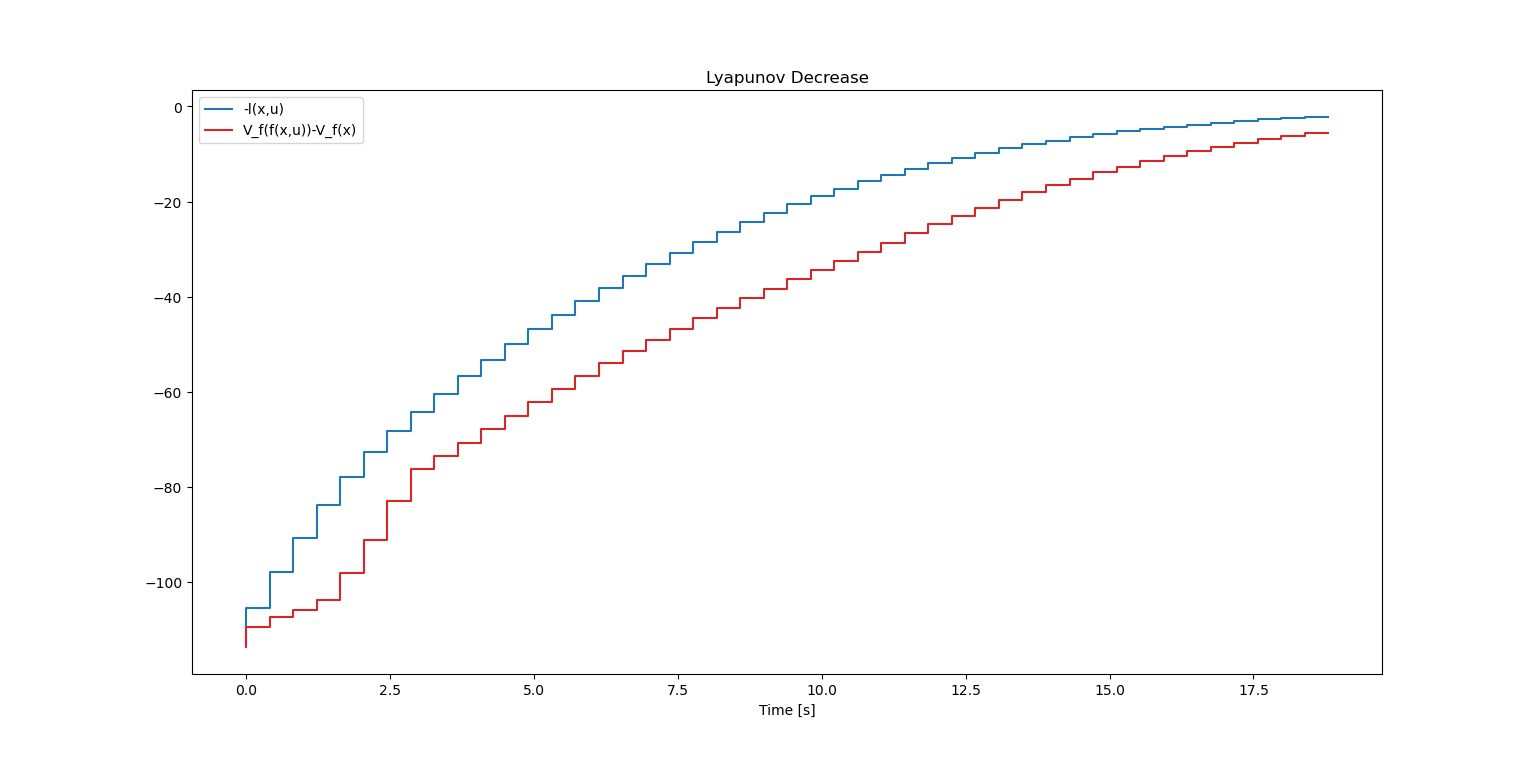
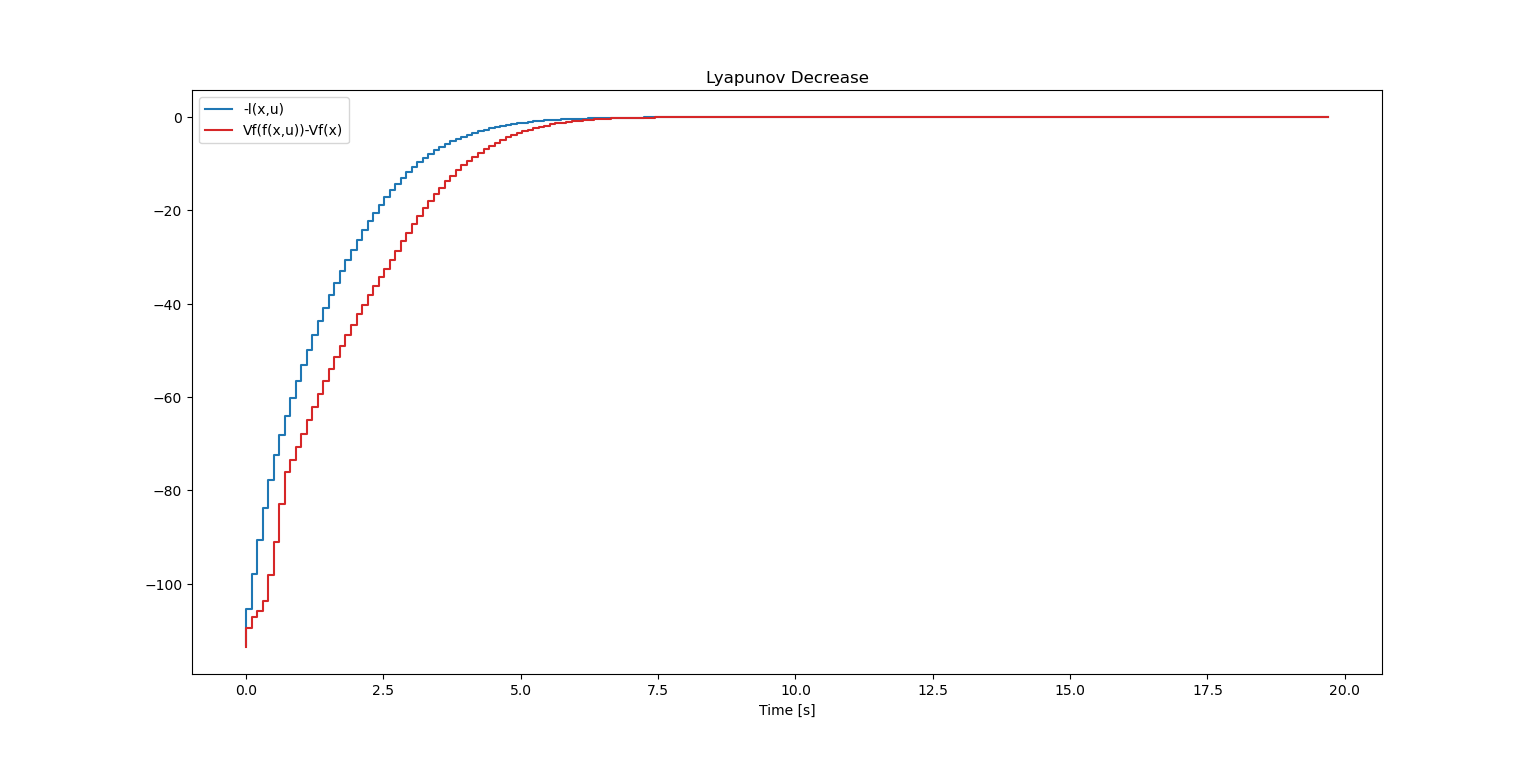
Compare MPC with finite LQR outside Xf

diff --git a/src/stabilityAnalysis.py b/src/stabilityAnalysis.py
@@ -1,61 +1,154 @@
 from model import drone_dynamics
 from planner import trajectory_generation
+from estimateXf import max_control_admissable_set
 import matplotlib.pyplot as plt
 import numpy as np
 
-
 # define simulation parameters
-dt = 0.4
+dt = 0.1
 t_final = 20.0  # seconds
 time_steps = int(t_final / dt)
 time = np.linspace(0, t_final, time_steps)
 
 Q = np.eye(12)
-parms = {"Q": Q, "R": np.eye(4), "N": 10, "Qf": Q, "dynamic": True}
+# Q = np.block([[np.eye(3) * 0.5, np.zeros((3, 9))],
+#               [np.zeros((9, 3)), np.eye(9)]])
+parms1 = {"Q": Q, "R": np.eye(4), "N": 10, "Qf": Q, "dynamic": True}
+drone_model1 = drone_dynamics.Quadrotor(parms1)
+K, P = drone_model1.make_dlqr_controller(parms1)
+parms = {"Q": Q, "R": np.eye(4), "N": 10, "Qf": P, "dynamic": True}
 drone_model = drone_dynamics.Quadrotor(parms)
-K, P = drone_model.make_dlqr_controller(parms)
 
-# initialize state and input arrays
-x_bag, u_bag = drone_model.get_ss_bag_vectors(time_steps) # np.zeros((self.n_states, N))
-x0 = np.array([5, 3, 0, 0, 0, 0, 0, 0, 0, 0, 0, 0])
+################### Xf generation ###################
+x_lim = np.array([1000, 1000, 1000, np.pi/2, np.pi/2, 100, 2, 2, 2, 3*np.pi, 3*np.pi, 3*np.pi])
+u_lim = np.array([30, 1.4715, 1.4715, 0.0196])
+H, h = max_control_admissable_set(drone_model.dsys.A, drone_model.dsys.B, drone_model.K, x_lim, u_lim)
+print('H:', H.shape, type(H))   
+print('h:', h.shape, type(h))
+
+x0_tested = [0, 0, 0, 0, 0, 0, 0, 0, 0, 0, 0, 0]  # [-20, 5, 0, 0, 0, 5, 0, 0, 0, 0, 0, 0]
+if np.all(np.dot(H, x0_tested) <= h):
+    print('x0 is in the set X_f')
+else:
+    print('x0 is NOT in the set X_f')
+
+x_bagMPC, u_bagMPC = drone_model.get_ss_bag_vectors(time_steps) # np.zeros((self.n_states, N))
+x_bagLQR, u_bagLQR = drone_model.get_ss_bag_vectors(time_steps) # np.zeros((self.n_states, N))
+x0 = np.array(x0_tested)
 u0 = np.array([0, 0, 0, 0])
-x_bag[:, 0] = x0
-u_bag[:, 0] = u0
+x_bagMPC[:, 0] = x0
+u_bagMPC[:, 0] = u0
+x_bagLQR[:, 0] = x0
+u_bagLQR[:, 0] = u0
 x_ref = trajectory_generation.hover_traj(time_steps)  # reference trajectory (state)
 u_ref =  np.zeros((4, time_steps)) # reference trajectory (input)
+
+# MPC vs LQR simulation
+for k in range(time_steps-1):
+    x_ref_current = x_ref[:, k]
+    u_ref_current = u_ref[:, k]
+    x_currentMPC = x_bagMPC[:, k]
+    x_currentLQR = x_bagLQR[:, k]
+
+    # MPC
+    x_nextMPC, uMPC = drone_model.step(x_currentMPC, x_ref_current, u_ref_current, cont_type="MPC", sim_system="linear", parms=parms)
+    x_bagMPC[:, k + 1] = x_nextMPC
+    u_bagMPC[:, k + 1] = uMPC
+
+    # Finite Horizon Unconstrained LQR
+    uLQR, _ = drone_model.Nlqr(x_currentLQR, x_ref_current, u_ref_current, Q=parms["Q"], R=parms["R"], N=parms["N"], Qf=parms["Qf"], dynamic=False)
+    x_nextLQR = drone_model.dsys.A @ x_currentLQR + drone_model.dsys.B @ uLQR
+    x_bagLQR[:, k + 1] = x_nextLQR
+    u_bagLQR[:, k + 1] = uLQR
+
+plt.figure()
+plt.subplot(2, 2, 1)
+plt.step(time, x_bagMPC[0, :], '#1f77b4', label="x")
+plt.step(time, x_bagMPC[1, :], '#ff7f0e', label="y")
+plt.step(time, x_bagMPC[2, :], '#2ca02c', label="z")
+plt.step(time, x_ref[0, :], '#1f77b4', linestyle='--', label="x_ref")
+plt.step(time, x_ref[1, :], '#ff7f0e', linestyle='--', label="y_ref")
+plt.step(time, x_ref[2, :], '#2ca02c', linestyle='--', label="z_ref")
+plt.xlabel("Time [s]")
+plt.ylabel("Position [m]")
+plt.title("MPC")
+plt.legend()
+
+plt.subplot(2, 2, 2)
+plt.step(time, x_bagLQR[0, :], '#1f77b4', label="x")
+plt.step(time, x_bagLQR[1, :], '#ff7f0e', label="y")
+plt.step(time, x_bagLQR[2, :], '#2ca02c', label="z")
+plt.step(time, x_ref[0, :], '#1f77b4', linestyle='--', label="x_ref")
+plt.step(time, x_ref[1, :], '#ff7f0e', linestyle='--', label="y_ref")
+plt.step(time, x_ref[2, :], '#2ca02c', linestyle='--', label="z_ref")
+plt.xlabel("Time [s]")
+plt.ylabel("Position [m]")
+plt.title("LQR")
+plt.legend()
+
+plt.subplot(2, 2, 3)
+plt.step(time, x_bagMPC[3, :], '#1f77b4', label="phi")
+plt.step(time, x_bagMPC[4, :], '#ff7f0e', label="theta")
+plt.step(time, x_bagMPC[5, :], '#2ca02c', label="psi")
+plt.step(time, x_ref[3, :], '#1f77b4', linestyle='--', label="phi_ref")
+plt.step(time, x_ref[4, :], '#ff7f0e', linestyle='--', label="theta_ref")
+plt.step(time, x_ref[5, :], '#2ca02c', linestyle='--', label="psi_ref")
+plt.xlabel("Time [s]")
+plt.ylabel("Angle [rad]")
+plt.legend()
+
+plt.subplot(2, 2, 4)
+plt.step(time, x_bagLQR[3, :], '#1f77b4', label="phi")
+plt.step(time, x_bagLQR[4, :], '#ff7f0e', label="theta")
+plt.step(time, x_bagLQR[5, :], '#2ca02c', label="psi")
+plt.step(time, x_ref[3, :], '#1f77b4', linestyle='--', label="phi_ref")
+plt.step(time, x_ref[4, :], '#ff7f0e', linestyle='--', label="theta_ref")
+plt.step(time, x_ref[5, :], '#2ca02c', linestyle='--', label="psi_ref")
+plt.xlabel("Time [s]")
+plt.ylabel("Angle [rad]")
+plt.legend()
+
+plt.show()
 
 # do optimal target selection
 #x_ref, u_ref = drone_model.ots(x_ref[:3, 0], parms)
 
-# Cost
-l_xu = np.zeros(time_steps) # stage cost optimal
-Vf_x = np.zeros(time_steps) # terminal cost optimal
-Vf_fxu = np.zeros(time_steps)   # terminal cost optimal next state
-A = drone_model.dsys.A
-B = drone_model.dsys.B
+################### Lyapunov Decrease ###################
+# x_bag, u_bag = drone_model.get_ss_bag_vectors(time_steps) # np.zeros((self.n_states, N))
+# x0 = np.array(x0_tested)
+# u0 = np.array([0, 0, 0, 0])
+# x_bag[:, 0] = x0
+# u_bag[:, 0] = u0
 
-for k in range(time_steps-1):
-    x_ref_current = x_ref[:, k]
-    u_ref_current = u_ref[:, k]
-    x_current = x_bag[:, k]
-    u, xMPC = drone_model.mpc(x_current, x_ref_current, u_ref_current, Q=parms["Q"], R=parms["R"], N=parms["N"], Qf=parms["Qf"], dynamic=parms["dynamic"])
-    x_next = drone_model.dsys.A @ x_current + drone_model.dsys.B @ u
-    buffer = xMPC[:, -1]
-    l_xu[k] = (buffer-x_ref_current).T @ parms['Q'] @ (buffer-x_ref_current) + (u-u_ref_current).T @ parms['R'] @ (u-u_ref_current)
-    x_bag[:, k+1] = x_next
-    u_bag[:, k+1] = u
+# # Cost
+# l_xu = np.zeros(time_steps) # stage cost optimal
+# Vf_x = np.zeros(time_steps) # terminal cost optimal
+# Vf_fxu = np.zeros(time_steps)   # terminal cost optimal next state
+# A = drone_model.dsys.A
+# B = drone_model.dsys.B
 
-# Calculate cost
-for k in range(time_steps-1):
-    Vf_x[k] = (x_bag[:,k]-x_ref[:,k]).T @ P @ (x_bag[:,k]-x_ref[:,k])
-    x_next_optimal = A @ x_bag[:, k] + B @ u_bag[:, k]
-    Vf_fxu[k] = (x_next_optimal-x_ref[:,k]).T @ P @ (x_next_optimal-x_ref[:,k])
+# for k in range(time_steps-1):
+#     x_ref_current = x_ref[:, k]
+#     u_ref_current = u_ref[:, k]
+#     x_current = x_bag[:, k]
+#     uMPC, xMPC = drone_model.mpc(x_current, x_ref_current, u_ref_current, Q=parms["Q"], R=parms["R"], N=parms["N"], Qf=parms["Qf"], dynamic=parms["dynamic"])
+#     x_next = drone_model.dsys.A @ x_current + drone_model.dsys.B @ uMPC
+#     buffer = xMPC[:, -1]
+#     l_xu[k] = (buffer-x_ref_current).T @ parms['Q'] @ (buffer-x_ref_current) + (uMPC-u_ref_current).T @ parms['R'] @ (uMPC-u_ref_current)
+#     x_bag[:, k+1] = x_next
+#     u_bag[:, k+1] = uMPC
 
-# Show Lyanpunov decrease
-plt.figure()
-plt.step(np.linspace(0, dt * len(l_xu[2:-1]), len(l_xu[2:-1])), -1 * l_xu[2:-1], '#1f77b4', label="-l(x,u)")
-plt.step(np.linspace(0, dt * len(l_xu[2:-1]), len(l_xu[2:-1])), Vf_fxu[2:-1] - Vf_x[2:-1], '#d62728', label="V_f(f(x,u))-V_f(x)")
-plt.xlabel("Time [s]")
-plt.title("Lyapunov Decrease")
-plt.legend()
-plt.show()
+# # Calculate cost
+# for k in range(time_steps-1):
+#     x_next_optimal = A @ x_bag[:, k] + B @ u_bag[:, k]
+#     Vf_x[k] = (x_bag[:,k]-x_ref[:,k]).T @ P @ (x_bag[:,k]-x_ref[:,k])
+#     Vf_fxu[k] = (x_next_optimal-x_ref[:,k+1]).T @ P @ (x_next_optimal-x_ref[:,k+1])
+
+# # Show Lyanpunov decrease
+# plt.figure()
+# plt.step(np.linspace(0, dt * len(l_xu[2:-1]), len(l_xu[2:-1])), -1 * l_xu[2:-1], '#1f77b4', label="-l(x,u)")
+# plt.step(np.linspace(0, dt * len(l_xu[2:-1]), len(l_xu[2:-1])), Vf_fxu[2:-1] - Vf_x[2:-1], '#d62728', label="Vf(f(x,u))-Vf(x)")
+# plt.xlabel("Time [s]")
+# plt.title("Lyapunov Decrease")
+# plt.legend()
+# plt.show()

diff --git a/src/estimateXf.py b/src/estimateXf.py
@@ -10,7 +10,7 @@ only if O_t = O_{t+1} for some t. Based on the definition (2, 3) and Theorem 2.3
 the following optimization problem:
 """
 
-from Model import drone_dynamics
+from model import drone_dynamics
 import numpy as np
 from scipy.optimize import linprog
 
@@ -35,13 +35,13 @@ def max_control_admissable_set(A, B, K, x_lim, u_lim):
     """
 
     # Initialization
-    nx = len(x_lim)                                     # Number of states
-    nu = len(u_lim)                                     # Number of control inputs
+    nx = len(x_lim)                                     # Number of states 12
+    nu = len(u_lim)                                     # Number of control inputs 4
     f = np.concatenate((u_lim, u_lim, x_lim, x_lim))    # Constraints    32
     s = f.shape[0]                                      # Number of constraints 32
-    A_K = A - np.dot(B, K)                              # A_K closed loop system matrix 
-    H = np.empty((0, A.shape[1]))
-    h = np.empty(0)
+    A_K = A - B @ K                                     # A_K closed loop system matrix 
+    H = np.empty((0, A.shape[1]))                       # (0, 12)
+    h = np.empty(0)                                     # (0,)
     exit_flag = 0
     t = 0
 
@@ -59,7 +59,7 @@ def max_control_admissable_set(A, B, K, x_lim, u_lim):
         opt_val = np.zeros(s)
 
         for i in range(s):
-            res = linprog(-J[i, :], A_ub=np.vstack(H), b_ub=np.array(h), method='highs') # solve the opti problem
+            res = linprog(-J[i, :], A_ub=np.array(H), b_ub=np.array(h), method='highs') # solve the opti problem
             if res.status == 2:     # If problem is infeasible
                 fval = 0
             elif res.status == 3:   # If problem is unbounded
@@ -82,30 +82,22 @@ def max_control_admissable_set(A, B, K, x_lim, u_lim):
     
     return H, h
 
-drone_model = drone_dynamics.Quadrotor()
-A = drone_model.dsys.A  # (12, 12)
-B = drone_model.dsys.B  # (12, 4)
-C = drone_model.dsys.C  # (12, 12)
-K_lqr = drone_model.K   # (4, 12)
+# Q = np.eye(12)
+# parms = {"Q": Q, "R": np.eye(4), "N": 10, "Qf": Q, "dynamic": True}
+# drone_model = drone_dynamics.Quadrotor(parms)
+# A = drone_model.dsys.A  # (12, 12)
+# B = drone_model.dsys.B  # (12, 4)
+# C = drone_model.dsys.C  # (12, 12)
+# K_lqr = drone_model.K   # (4, 12)
 
-x_lim = np.array([1000, 1000, 1000, np.pi/2, np.pi/2, 100, 2, 2, 2, 3*np.pi, 3*np.pi, 3*np.pi])
-u_lim = np.array([30, 1.4715, 1.4715, 0.0196])
-H, h = max_control_admissable_set(A, B, K_lqr, x_lim, u_lim)
-print('H:', H.shape, type(H))   
-print('h:', h.shape, type(h))
+# x_lim = np.array([1000, 1000, 1000, np.pi/2, np.pi/2, 100, 2, 2, 2, 3*np.pi, 3*np.pi, 3*np.pi])
+# u_lim = np.array([30, 1.4715, 1.4715, 0.0196])
+# H, h = max_control_admissable_set(A, B, K_lqr, x_lim, u_lim)
+# print('H:', H.shape, type(H))   
+# print('h:', h.shape, type(h))
 
-x0 = [5, 0, 0, 0, 0, 0, 0, 0, 0, 0, 0, 0]
-if np.all(np.dot(H, x0) <= h):
-    print('x0 is in the set X_f')
-else:
-    print('x0 is NOT in the set X_f')
-
-# visualize the set X_f
-# plt.figure()
-# plt.plot(H[:, 0], H[:, 1], 'b-', label='Hx <= h')
-# plt.xlabel('x1')
-# plt.ylabel('x2')
-# plt.title('Projection of X_f in 2D Space')
-# plt.legend()
-# plt.grid(True)
-# plt.show()
+# x0 = [5, 3, 0, 0, 0, 0, 0, 0, 0, 0, 0, 0]
+# if np.all(np.dot(H, x0) <= h):
+#     print('x0 is in the set X_f')
+# else:
+#     print('x0 is NOT in the set X_f')

diff --git a/src/model/drone_dynamics.py b/src/model/drone_dynamics.py
@@ -180,6 +180,42 @@ class Quadrotor:
         prob = cp.Problem(obj, cons)
         prob.solve(verbose=False)
         return u.value[:, 0], x.value
+    
+    def Nlqr(self, x0, x_ref, u_ref, Q=np.eye(12), R=np.eye(4), N=10, Qf=np.eye(12), dynamic=False):
+        x = cp.Variable((12, N-1))  # x_1 to x_{N-1}
+        u = cp.Variable((4, N-1))   # u_0 to u_{N-2}
+        xn = cp.Variable((12, 2))   # x_{N-1} and x_N
+        un = cp.Variable((4, 2))    # u_{N-2} and u_{N-1}
+        cost = sum(cp.quad_form(x[:, i] - x_ref.T, Q) + cp.quad_form(u[:, i] - u_ref, R) for i in range(N-2))  # stage cost
+        obj = cp.Minimize(cost)
+
+        cons = [x[:, 0] == x0]
+        for i in range(1, N-1):
+            cons += [x[:, i] == self.dsys.A @ x[:, i-1] + self.dsys.B @ u[:, i-1]]
+
+        u_max = np.array([30, 1.4715, 1.4715, 0.0196])
+        u_min = np.array([-10, -1.4715, -1.4715, -0.0196])
+
+        if dynamic==True:
+            cons += [u <= np.array([u_max]).T, u >= np.array([u_min]).T]                            # Input limit
+            cons += [x[3:5, :] <= 0.5*np.pi*np.ones((2,1)), x[3:5,:] >= -0.5*np.pi*np.ones((2, 1))]   # Pitch and roll limit
+            cons += [x[6:9, :] <= 2*np.ones((3,1)), x[6:9,:] >= -2*np.ones((3, 1))]                   # Speed limit
+            cons += [x[9:12, :] <= 3*np.pi*np.ones((3,1)), x[9:12,:] >= -3*np.pi*np.ones((3, 1))]     # Angular speed limit
+
+        prob = cp.Problem(obj, cons)
+        prob.solve(verbose=False)
+        #print(x.value.shape, u.value.shape) # (12, 9) (4, 9)
+
+        # solve the problem from N-2 to N
+        cons2 = [xn[:, 0] == x.value[:, -1]]
+        cost2 = cp.quad_form(un[:, 0] - u_ref, R) + cp.quad_form(xn[:, 1] - x_ref.T, Qf)
+        for j in range(1, 2):
+            cons2 += [xn[:, j] == self.dsys.A @ xn[:, j-1] + self.dsys.B @ un[:, j-1]]
+        prob2 = cp.Problem(cp.Minimize(cost2), cons2)
+        prob2.solve(verbose=False)
+        #print(xn.value.shape, un.value.shape) # (12, 2) (4, 2)
+
+        return un.value[:, 0], xn.value
 
     def ots(self, y_ref, parms):
         x = cp.Variable(self.n_states)
@@ -199,7 +235,7 @@ class Quadrotor:
         elif cont_type == "c-LQR":  # constrained LQR
             u = self.K @ (x_ref - x)
             u_max = np.array([30, 1.4715, 1.4715, 0.0196])
-            u_min = np.array([-10, -1.4715, -1.4715, -0.0196])
+            u_min = np.array([-30, -1.4715, -1.4715, -0.0196])
             u = np.clip(u, u_min, u_max)  # saturation function
         elif cont_type == "MPC":
             try:
